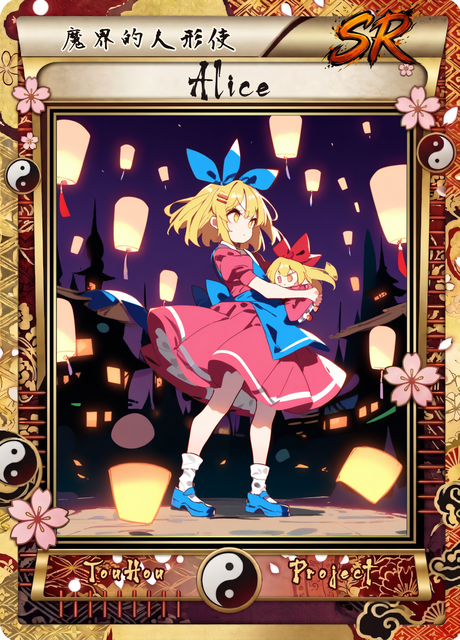
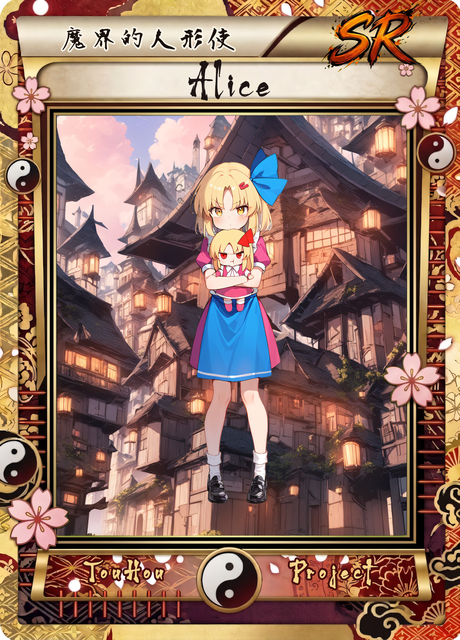
feat: 0.35.015 愛麗絲 (舊作) SR / SSR / UR 卡面

diff --git a/tools/card_art/layered/hd_card.py b/tools/card_art/layered/hd_card.py
@@ -30,10 +30,10 @@
   ★ 是重建卡面需要的檔案 (build_cards.py 會優先用它們)；*_hd.png 太大不進 git，只留在本機
 
 用法：
-  python hd_card.py wf <角色> <階級> bg|char <種子> <輸出.json>   產生 ComfyUI 工作流程 (生成 → 重繪 → 放大一次做完)
+  python hd_card.py wf <角色> <階級> bg|char|orb <種子> <輸出.json>   產生 ComfyUI 工作流程 (生成 → 重繪 → 放大一次做完；orb = LAYERS 的 orbs.prompt)
   python hd_card.py wf-up <角色> <階級> <ComfyUI/input 裡的圖> <種子> <輸出.json>  拿現成人物圖走重繪 → 高清
   python hd_card.py wf-outpaint <角色> <階級> <ComfyUI/input 裡的圖> <種子> <輸出.json>  往外擴圖 (神綺翅膀試過會長出多餘的翅膀，不建議)
-  python hd_card.py collect <角色> <階級> bg|char <種子>            把 ComfyUI 的輸出複製成 01~03 / 06~08
+  python hd_card.py collect <角色> <階級> bg|char|orb <種子>        把 ComfyUI 的輸出複製成 01~03 / 06~08 / O1
   python hd_card.py bg <角色> <階級>                                 04、05
   python hd_card.py char <角色> <階級>                               09、10 (去背用 comfy venv 的 python)
   python hd_card.py light <角色> <階級>                              10b (打光，LAYERS 的 light)
@@ -70,6 +70,7 @@ HD = 4                                             # 長寬各 4 倍 = 16 倍像
 SIZES = {   # 生成尺寸、重繪倍率
     "bg": {"base": (864, 1200), "hires": (1728, 2400)},
     "char": {"base": (936, 1128), "hires": (1400, 1688)},
+    "orb": {"base": (832, 1152), "hires": (1248, 1728)},   # 環繞物件 (LAYERS 的 orbs.prompt)，只用 2hires 當 O1；正方形容易畫出一整排
 }
 # 共用構圖不提翅膀 (會讓沒有翅膀的角色長出翅膀)；有翅膀的角色寫在 LAYERS 的 "char"，或改用翅膀分層
 CHAR_COMPOSITION = ("solo, full body, entire body visible, head to toe, "
@@ -1168,6 +1169,59 @@ LAYERS = {
                           "danmaku, bullets, magic circle, aura, energy ball, beam, wings, smile, swirl, wind effect, ribbon, halo, chair"),
         "char_scale": 0.8,
     },
+    # 愛麗絲 SR / SSR / UR (TH05 舊卡重生)：**舊作外觀** (怪綺談)，沿用 make_workflow.BASE["alice"] (萌娘百科「愛麗絲(東方Project舊作)」：
+    # 齊頸金色短髮、金瞳、藍緞帶髮卡、粉紅連衣裙 + 藍色圍裙、白襪、個子矮)；EXTRA_NEGATIVE["alice"] 已擋新作愛麗絲 (藍裙披肩、長髮)
+    # 個性：浪漫天真、一臉正氣擋路 (三面) ➔ 輸了拿究極魔導書回來報仇、邊看邊打 (EX 面)；「死之少女」= 女神轉生抱人偶的屍鬼少女
+    # 不擦邊：三張都不用仰角，負面提示擋裙底 / 走光
+    ("alice", "SR"): {
+        # SR「魔界的人形使」：日常 ── 在魔界的街道上抱緊小人偶、鼓著臉擋在路中間，倔強地瞪著闖入者 (三面的「浩然正氣」)
+        # 背景 = 魔界的城鎮 (奇形怪狀的房子、石板路、飄浮的燈籠)、淡紫色天空；平視、柔光
+        "bg": ("no humans, scenery, eye level, demon world town, makai, strange whimsical buildings, crooked houses, cobblestone street, "
+               "floating lanterns, pastel purple sky, pink clouds, soft lighting, fantasy, whimsical, highly detailed"),
+        "bg_negative": "1girl, person, human, character, face, doll, text, watermark, lowres, worst quality, low quality, blurry, frame, border, night, dark",
+        "char": ("standing, blocking the way, legs together, hugging a small doll, holding doll tightly with both arms, "
+                 "pout, puffed cheeks, glaring at viewer, frown, stubborn, determined, front view, full body"),
+        "char_negative": ("cleavage, revealing clothes, short dress, skirt lift, upskirt, panties, from below, sitting, "
+                          "lantern, multiple dolls, danmaku, magic circle, multiple girls"),
+        "char_scale": 0.85,   # 使用者 (2026-11-16)：B2C1 第一版 0.65 太小、像浮在屋頂上 ➔ 放大
+    },
+    ("alice", "SSR"): {
+        # SSR「死之少女」：EX 面復仇 ── 浮在黃昏的魔界上空，單手攤開發光的究極魔導書邊讀邊施法，「這次一定贏」的得意壞笑，
+        # 頭髮、緞帶、裙擺被魔力吹起；書頁 / 符文 / 光線放背景 (去背會切掉)，SSR 沒有彈幕、閃光由程式加
+        "bg": ("no humans, scenery, high in the sky above the demon world, makai, twilight, purple and deep blue sky, "
+               "dark castle silhouette in the distance, floating islands, glowing blue magic runes floating in the air, "
+               "blue magic light rays, sparkles, bloom, epic, majestic, highly detailed, intricate details"),
+        "bg_negative": "1girl, person, human, character, face, book, text, watermark, lowres, worst quality, low quality, blurry, frame, border, danmaku, bullets",
+        "char": ("floating, holding open book in one hand, reading book, glowing book, glowing pages, other hand raised, index finger raised, "
+                 "casting spell, smug, confident grin, looking at viewer, hair ribbon fluttering, hair flowing, "
+                 "dress fluttering, apron fluttering, dynamic pose, three-quarter view, full body"),
+        "char_negative": ("cleavage, revealing clothes, short dress, skirt lift, upskirt, panties, from below, "
+                          "flying papers, scattered pages, magic circle, danmaku, beam, aura, multiple books, multiple girls"),
+        "char_scale": 0.8,
+    },
+    ("alice", "UR"): {
+        # UR「魔法之國的死靈法師」人形「Little Legion」：浮在暗紫色的魔界夜空，雙手張開、指尖拉出發光絲線指揮人偶，眼睛發光、表情認真
+        # 人偶軍團模型畫不好 ➔ 試過環繞物件圈 (orbs + wf orb 單獨生人偶)，最後拿掉，只留彈幕
+        # 彈幕 legion：粉紅 / 藍大玉交錯環 + 藍米粒彈螺旋 (舊作愛麗絲的粉紅 + 藍配色)；背景偏暗紫黑
+        "bg": ("no humans, scenery, night sky above the demon world, makai, dark violet and deep navy sky, starry sky, "
+               "dark castle silhouette far below, faint purple mist, ominous, dark, dramatic, cinematic, majestic, highly detailed, intricate details"),
+        "bg_negative": "1girl, person, human, character, face, doll, text, watermark, lowres, worst quality, low quality, blurry, frame, border, daytime, blue sky, sun",
+        # 第一輪 (種子 3303～6606)：「puppeteer / strings」讓模型畫出吊著的紅球、眼球裝飾、桿子 ➔ 拿掉，負面擋吊飾 / 球 / 桿子 / 翅膀 / 燈籠褲
+        "char": ("floating in the air, both arms spread outward, open hands, fingers spread, "
+                 "serious expression, glowing eyes, looking at viewer, facing viewer, hair ribbon fluttering, hair flowing, "
+                 "long dress, dress fluttering, apron fluttering, full body"),
+        "char_negative": ("cleavage, revealing clothes, short dress, skirt lift, upskirt, panties, bloomers, from below, "
+                          "doll, dolls, doll army, book, magic circle, danmaku, aura, multiple girls, "
+                          "ball, sphere, bauble, ornament, hanging objects, string, puppet strings, pole, staff, eyeball, "
+                          "floating objects, standing on object, wings, feathers"),
+        "style": "legion",
+        "density": 0.72,
+        "glow": 0.55,
+        "char_scale": 0.8,
+        "light": {"dark": 0.35, "glow_red": 0,   # 沒有翅膀 ➔ glow_red 0
+                  "eyes": [(670, 512), (737, 512)], "eye_color": (255, 210, 90), "eye": 1.3, "eye_size": 3},   # 金瞳發光 (B1C4 的 10_char 量的)
+        # 人偶環 (orbs.py，D3 素材 = orb 種子 9919、anchor (540, 690)) 做過一版，使用者 (2026-11-16) 決定拿掉 ➔ 不放 orbs
+    },
 }
 
 
@@ -1204,6 +1258,10 @@ def workflow(char_id: str, rarity: str, layer: str, seed: int) -> dict:
         positive = ", ".join([spec["bg"], QUALITY])
         negative = spec["bg_negative"]
         denoise, hd = 0.4, (1748 * HD, 2432 * HD)
+    elif layer == "orb":   # 環繞物件 (例如愛麗絲 UR 的人偶)：提示寫在 LAYERS 的 orbs.prompt / negative
+        positive = ", ".join([spec["orbs"]["prompt"], QUALITY])
+        negative = spec["orbs"].get("negative", NEGATIVE)
+        denoise, hd = 0.35, (1248 * 2, 1728 * 2)
     else:
         positive, negative = char_prompts(char_id, spec)
         l, t, r, b = window_box()
@@ -1289,6 +1347,13 @@ def upscale_workflow(char_id: str, rarity: str, src: str, seed: int) -> dict:
 
 def collect(char_id, rarity, layer, seed):
     d = stage_dir(char_id, rarity)
+    if layer == "orb":   # 環繞物件只要 2hires ➔ O1_orb.png
+        files = sorted(glob.glob(os.path.join(COMFY_OUT, "touhou_card", "hd", f"{char_id}_{rarity}_orb_s{seed}_2hires_*.png")))
+        if not files:
+            raise SystemExit(f"找不到 ComfyUI 輸出：orb s{seed} 2hires")
+        shutil.copy(files[-1], os.path.join(d, "O1_orb.png"))
+        print("✅ O1_orb")
+        return
     names = {"bg": ["01_bg_base", "02_bg_hires", "03_bg_hd"], "char": ["06_char_base", "07_char_hires", "08_char_hd"]}[layer]
     for step, name in zip(["1base", "2hires", "3hd"], names):
         files = sorted(glob.glob(os.path.join(COMFY_OUT, "touhou_card", "hd", f"{char_id}_{rarity}_{layer}_s{seed}_{step}_*.png")))

diff --git a/tools/card_art/layered/danmaku.py b/tools/card_art/layered/danmaku.py
@@ -1,4 +1,4 @@
-"""程式畫的彈幕層 (分層合成用)：環狀光球、螺旋米粒彈、星形彈、散落小玉 (freeze 風格再加六角冰晶；stars 風格全部換成星彈，魔理沙用；seal 風格是七彩大光球 + 紅白符札 + 小陰陽玉，靈夢用；starbow 是紅色大玉環 + 七彩水晶米粒彈 + 七彩菱形水晶彈雨，芙蘭「星弓破碎」用；scarlet 全部紅色系大玉 + 米粒彈，蕾米莉亞用；elements 是七曜色 (日月火水木金土) 大玉環 + 七色螺旋 + 七個元素魔法陣，帕秋莉用；knives 銀藍飛刀環 + 飛刀螺旋 + 時停飛刀陣，咲夜用)
+"""程式畫的彈幕層 (分層合成用)：環狀光球、螺旋米粒彈、星形彈、散落小玉 (freeze 風格再加六角冰晶；stars 風格全部換成星彈，魔理沙用；seal 風格是七彩大光球 + 紅白符札 + 小陰陽玉，靈夢用；starbow 是紅色大玉環 + 七彩水晶米粒彈 + 七彩菱形水晶彈雨，芙蘭「星弓破碎」用；scarlet 全部紅色系大玉 + 米粒彈，蕾米莉亞用；elements 是七曜色 (日月火水木金土) 大玉環 + 七色螺旋 + 七個元素魔法陣，帕秋莉用；knives 銀藍飛刀環 + 飛刀螺旋 + 時停飛刀陣，咲夜用；legion 粉紅 / 藍大玉交錯環 + 藍米粒彈螺旋，舊作愛麗絲「Little Legion」用)
 draw_danmaku(size, seed, style) 回傳 (glow 光暈 RGB, core 清楚彈體 RGBA)；
 座標以 1344 寬的畫窗為基準，依 size 等比放大，所以可以直接畫在 4 倍高清的畫布上。"""
 import colorsys
@@ -151,6 +151,8 @@ def draw_danmaku(size, seed=1, style="rainbow", scale=None, density=1.0, origins
     TWILIGHT = [(110, 90, 255), (150, 110, 255), (90, 140, 255), (180, 130, 255)]   # 魅魔：藍紫色月牙
     MIMA_GREEN = (150, 255, 190)
     STARLIGHT = [(255, 255, 255), (255, 250, 200), (240, 240, 255)]   # 魅魔：白、淡黃星光
+    LEGION_PINK = [(255, 120, 190), (255, 160, 215)]   # 愛麗絲 (舊作)：粉紅連衣裙 + 藍圍裙的配色
+    LEGION_BLUE = [(80, 140, 255), (120, 180, 255), (60, 110, 240)]
 
     def crescent(x, y, r, ang, color):
         """月牙刃彈：外圓扣掉偏移的內圓，開口朝行進方向的反方向"""
@@ -206,6 +208,8 @@ def draw_danmaku(size, seed=1, style="rainbow", scale=None, density=1.0, origins
                         orb(x, y, r * 1.2, STARBOW[k % 7] if k % 3 == 0 else (230, 25, 45))
                     elif style == "elements":   # 帕秋莉：一圈一種元素色的大玉
                         orb(x, y, r * 1.4, ELEMENTS[(ring + int(base_h * 7)) % 7])
+                    elif style == "legion":   # 愛麗絲 (舊作)：粉紅 / 藍大玉交錯的環
+                        orb(x, y, r * 1.5, LEGION_PINK[ring % 2] if k % 2 == 0 else LEGION_BLUE[ring % 3])
                     elif style == "twilight":   # 魅魔：藍紫月牙刃環，每五顆夾一顆淡綠大玉
                         if k % 5 == 0:
                             orb(x, y, r * 1.7, MIMA_GREEN)
@@ -233,6 +237,8 @@ def draw_danmaku(size, seed=1, style="rainbow", scale=None, density=1.0, origins
                     rice(x, y, a + 0.35, 17 * s, STARBOW[arm])
                 elif style == "elements":   # 帕秋莉：七條手臂 = 七曜
                     rice(x, y, a + 0.35, 18 * s, ELEMENTS[arm])
+                elif style == "legion":   # 愛麗絲 (舊作)：藍色米粒彈螺旋
+                    rice(x, y, a + 0.35, 18 * s, LEGION_BLUE[arm % 3])
                 elif style == "twilight":   # 魅魔：藍紫米粒彈
                     rice(x, y, a + 0.35, 18 * s, TWILIGHT[arm % 4])
                 else:
@@ -256,7 +262,7 @@ def draw_danmaku(size, seed=1, style="rainbow", scale=None, density=1.0, origins
             knife(rnd.uniform(0, W), rnd.uniform(0, H), math.pi * 0.62 + rnd.uniform(-0.15, 0.15), rnd.uniform(26, 40) * s, rnd.choice(KNIFE))
     red = style == "scarlet"   # 蕾米莉亞：散落的彈也都是紅色系
     blue = style == "knives"   # 咲夜：散落的彈是藍白色系
-    palette = SCARLET if red else ELEMENTS if style == "elements" else KNIFE if blue else STARLIGHT if style == "twilight" else None   # 帕秋莉：七曜色；咲夜：銀藍；魅魔：白 / 淡黃星光
+    palette = SCARLET if red else ELEMENTS if style == "elements" else KNIFE if blue else STARLIGHT if style == "twilight" else LEGION_PINK + LEGION_BLUE + [(255, 255, 255)] if style == "legion" else None   # 帕秋莉：七曜色；咲夜：銀藍；魅魔：白 / 淡黃星光
     for _ in range(260 if style == "stars" else 60 if blue else 110):
         star(rnd.uniform(0, W), rnd.uniform(0, H), rnd.uniform(9, 17) * s, rnd.random() * 6, rnd.choice(palette) if palette else hue(rnd.random(), 0.6))
     for _ in range(260):

diff --git a/Utils/version.py b/Utils/version.py
@@ -6,4 +6,4 @@
 
 每次 commit 都要更新這裡和 CHANGELOG.md。
 """
-VERSION = "0.35.014"
+VERSION = "0.35.015"

diff --git a/docs/card-art.md b/docs/card-art.md
@@ -85,6 +85,7 @@
 - **去背切掉發光特效 (2026-11-12 夢子 SSR 劍焰)**：從 06 基本圖抓那個顏色做遮罩 (例如青藍：飽和度高、B/G > R)，存成步驟資料夾的 PNG、LAYERS 寫 `wing_mask`，遮罩範圍內保留原圖；地面陰影常是同色系，要排除。
 - **露米婭 / 小惡魔 (2026-11-12，桌機)**：去背 (BiRefNet) 只留人物，人物身邊的氣焰、黑暗會一起被去掉 ➔ 氛圍要靠背景表現。氣焰被畫面切到時補邊照樣可用 (四邊都補：縮到 680×820、pads (128, 154, 128, 154))。小惡魔沒有官方立繪，頭翼 + 背翼直接寫在 base 提示即可，不用 inline_wings。
 - **咲夜 UR (2026-11-12，桌機接手)**：一個角色可以兩台分著做 (筆電 SR / SSR、桌機 UR)。同樣的種子換 GPU 生出來的圖會略有不同，要跟使用者說。`build_cards.py <角色>` 只會建出本機有原圖的階級，所以各推各的階級，Thumbnails.json 不會互相覆蓋。異色眼 (一紅一藍) 是咲夜常見的問題，挑圖時要檢查。
+- **愛麗絲 (舊作) (2026-11-16)**：UR 人物提示寫 puppeteer / strings 會畫出吊球、眼球裝飾、桿子，要拿掉並在負面擋掉。人偶軍團試過用環繞物件圈 (`wf <角色> <階級> orb` 單獨生一隻人偶 ➔ `collect ... orb` ➔ O1 ➔ orbs)，使用者最後拿掉；物件素材要用直長畫布 + solo，正方形會畫成一整排。彈幕風格 `legion` (粉紅 / 藍大玉環 + 藍米粒彈)。
 - **背景只露出中間**：背景是整張卡大小 (1748×2432)，畫窗只露出 1329×1596，看起來像放大；使用者確認維持這樣。
 - **局部發光**：眼睛 `light.eyes` (10_char 座標) + `eye` 強度 / `eye_size`；彩色小物件 (芙蘭的水晶) 用 `crystal_mask.py <階段資料夾> <身體多邊形>` 依色相抓出、存成 `10m_crystal_<組>.png`，在 `light.emissive` 每組用自己的顏色發光 (黃色系要用身體多邊形排除頭髮、領巾)。
   - 大妖精的角色名本身就會讓模型畫出金框翅膀；「飛行 / 半空」姿勢更一定會畫。要「沒有翅膀」的人物時，拿掉角色名只描述外觀又會讓衣服跑掉 (水手服)，所以有翅膀的角色乾脆直接帶翅膀。

diff --git a/CHANGELOG.md b/CHANGELOG.md
@@ -13,6 +13,13 @@
 
 ---
 
+## 0.35.015 — 2026-11-16：愛麗絲 (舊作) SR / SSR / UR 卡面 (筆電，卡面 session)
+- **高清分層重生**，舊作外觀 (齊頸金髮、藍緞帶、粉紅連衣裙 + 藍圍裙)：SR「魔界的人形使」魔界街道抱人偶擋路 (B2C1，人物放大到 0.85)、SSR「死之少女」浮在魔界上空邊讀魔導書邊施法 (B1C1)、UR「魔法之國的死靈法師」暗紫魔界城堡 + 雙手張開 + 金瞳發光 (B1C4)。
+- **新彈幕風格 `legion`** (`danmaku.py`)：粉紅 / 藍大玉交錯環 + 藍米粒彈螺旋。
+- **`hd_card.py wf / collect` 多了 `orb` 圖層**：環繞物件可以用 `LAYERS["orbs"]["prompt"]` 單獨生 (直長畫布，正方形會畫成一整排)。
+- 坑：UR 人物提示寫「puppeteer / strings」會畫出吊著的紅球、眼球裝飾、桿子 ➔ 拿掉，負面擋球 / 吊飾 / 桿子 / 燈籠褲，重生一輪才可用。人偶環 (D3 人偶 7 隻) 做出來使用者決定拿掉，步驟圖留在本機 `_old_orbs/`。
+- 去背把 C4 身後的粉紅殘影當成半透明布保留下來，看起來像披風，使用者接受。
+
 ## 0.35.014 — 2026-11-16：📄 共用分頁 (一)：卡冊、收藏冊、合成選卡、卡冊管理、道具管理 (筆電，統整 session)
 - 新增 `Utils/pagination.py`：`paginate()` (切頁 + 頁數限制在範圍內)、`nav_buttons()` (上一頁 / 頁碼 / 下一頁，回傳 list 可以跟其他按鈕同一排)、`PageJumpModal` (輸入頁數跳頁)、`step()`。按鈕樣式用 preset 保留各畫面原本的樣子 (default / compact / simple / jump)，玩家看到的不變。
 - 這次換掉：`/card inventory` 的卡冊列表與一疊卡、`/card album`、`/card synthesis` 選卡、`/admin-gacha` 選卡、`/admin-item` 管理畫面。View 的 `prev_callback` / `next_callback` 改成一個 `set_page(interaction, page)`。

diff --git a/TODO.md b/TODO.md
@@ -32,7 +32,7 @@
 | TH04 | 艾莉 elly | N / R / SR | ✅ 0.34.001 (N 人物往下移，腳踩到石板路) |
 | TH04 | 幻月 gengetsu | R / SR / SSR | ✅ 0.34.006 (人物直接帶翅膀；SR / SSR 翅膀補邊) |
 | TH04 | 夢月 mugetsu | N / R / SR | ✅ 0.34.010 (N 圍裙紅色亂碼塗白；SR 人物重生一輪) |
-| TH05 | 愛麗絲 alice | SR / SSR / UR | 全部重生 (舊作外觀) |
+| TH05 | 愛麗絲 alice | SR / SSR / UR | ✅ 0.35.015 (舊作外觀；UR 彈幕 legion、人偶環試過拿掉) |
 | TH05 | 露易絲 luize | N / R / SR | ✅ 0.30.015 (桌機) |
 | TH05 | 神綺 shinki | SSR / UR / LR | LR 已是分層 (同上)；SSR、UR 重生 (UR 構圖要跟 LR 拉開) |
 | TH05 | 雪與舞 yuki_mai | N / R / SR | 全部重生 (雙人：兩人各自生成去背再合成) |
